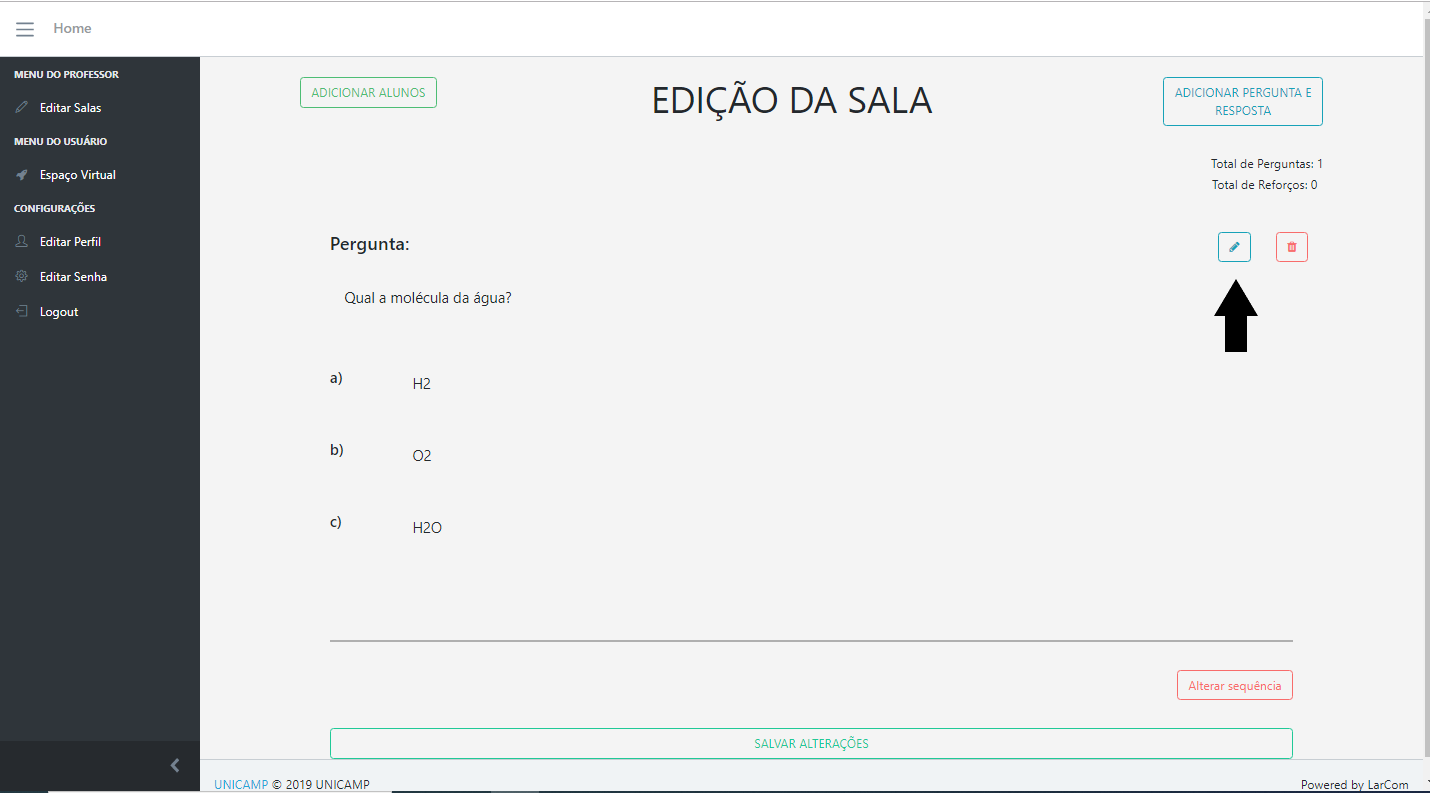
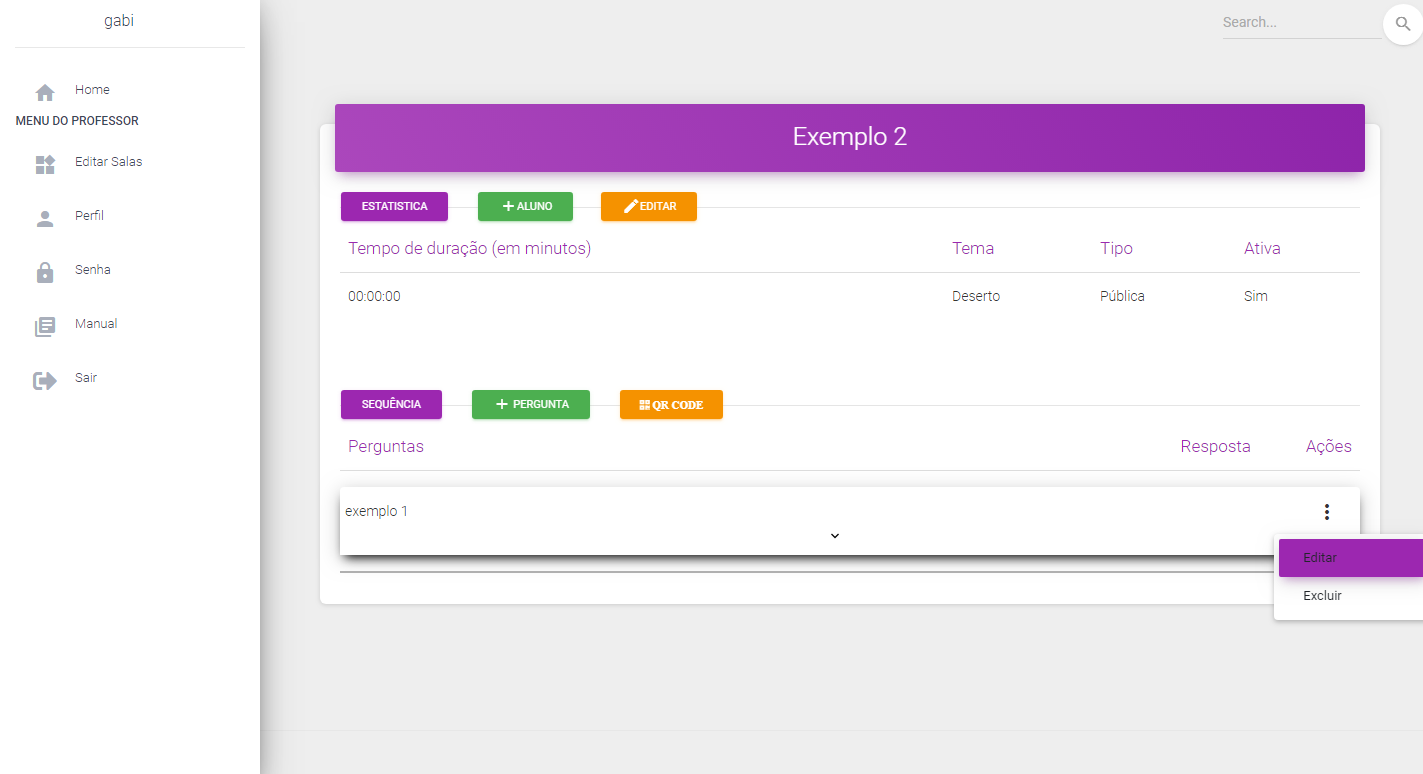
#layout alterações manual.blade.php

diff --git a/resources/views/manual.blade.php b/resources/views/manual.blade.php
@@ -13,10 +13,9 @@
                         <div id="list-example" class="list-group">
                             <a class="list-group-item list-group-item-action" href="manual#list-item-1-1">&emsp;Criar</a>
                             <a class="list-group-item list-group-item-action" href="manual#list-item-1-2">&emsp;Editar</a>
-                            <a class="list-group-item list-group-item-action" href="manual#list-item-1-3">&emsp;Deletar</a>
-                            <a class="list-group-item list-group-item-action" href="manual#list-item-1-4">&emsp;Desabilitadas</a>
-                            <a class="list-group-item list-group-item-action" href="manual#list-item-1-5">&emsp;Habilitadas</a>
-                            <a class="list-group-item list-group-item-action" href="manual#list-item-1-6">&emsp;Estatísticas</a>
+                            <a class="list-group-item list-group-item-action" href="manual#list-item-1-3">&emsp;Desativadas</a>
+                            <a class="list-group-item list-group-item-action" href="manual#list-item-1-4">&emsp;Ativas</a>
+                            <a class="list-group-item list-group-item-action" href="manual#list-item-1-5">&emsp;Estatísticas</a>
                         </div>
                     </a>
                     <a class="list-group-item list-group-item-action"></a>
@@ -63,9 +62,6 @@
                             
                                 <ul style="list-style-type:square;padding-left:18%">
                                     <li>
-                                        Criador do Labirinto: preenchido com o seu nome de usuário;
-                                    </li>
-                                    <li>
                                         Nome da Sala: é o que irá aparecer para os alunos;
                                     </li>
                                     <li>
@@ -94,45 +90,36 @@
                                 Editar Sala
                             </h5>
                             <p>
-                                Após criar a sala, se algum dos campos tiver sido preenchido de forma errada, é só clicar no botão <i class="fa fa-cogs"></i> e ele abrirá um editor de texto com os mesmos campos da página de criar sala e, ao finalizar, clique em “SALVAR ALTERAÇÕES”.
+                                Após criar a sala, se algum dos campos tiver sido preenchido de forma errada, é só clicar no botão <i class="material-icons">more_vert</i> e selecionar a opção 'Editar'. Assim, aparecerá uma caixa semelhante a que foi utilizada para criar a sala, mas, desta vez, os campos já aparecerão preenchidos.
                                 <br>
                                 <img src="/img/editar_sala.png" class="img-fluid" style="width: 800px; padding-bottom: 50px; padding-top:50px; ">
                                
                             </p>
                             
-                            <!--                            DELETAR SALA                           -->
-                            <h5 id="list-item-1-3">
-                                Deletar Sala
-                            </h5>
-                            <p>
-                                Para deletar uma sala, basta clicar no botão <i class="fa fa-trash"></i>.
-                                <br>
-                                <img src="/img/deletar_sala.png" class="img-fluid" style="width: 800px; padding-bottom: 50px; padding-top:50px; ">
-                            </p>
                             
                             <!--                            DESABILITAR SALA                           -->
-                            <h5 id="list-item-1-4">
-                                Desabilitar Sala
+                            <h5 id="list-item-1-3">
+                                Desativar Sala
                             </h5>
                             <p>
-                                Para ver as salas desabilitadas, basta clicar em:
+                                As salas desativadas estarão sinalizadas com outra cor (cinza), mas também podem ser visualizadas na aba 'DESATIVADAS'
                                 <br>
                                 <img src="/img/disabled.png" class="img-fluid" style="width: 800px; padding-bottom: 50px; padding-top:50px; ">
                             </p>
                             
                             
                             <!--                            HABILITAR SALA                           -->
-                            <h5 id="list-item-1-5">
-                                Habilitar Sala
+                            <h5 id="list-item-1-4">
+                                Ativar Sala
                             </h5>
                             <p>
-                                Para ver as salas habilitadas, basta clicar em:
+                                As salas ativadas sempre apareceram primeiro nas listas, elas podem ser visualizadas na aba 'ATIVADAS'
                                 <br>
                                 <img src="/img/enabled.png" class="img-fluid" style="width: 800px; padding-bottom: 50px; padding-top:50px; ">
                             </p>
                             
                             <!--                            ESTATÍSTICAS SALA                           -->
-                            <h5 id="list-item-1-6">
+                            <h5 id="list-item-1-5">
                                 Estatísticas da Sala
                             </h5>
                             <p>
@@ -148,7 +135,7 @@
                             Perguntas e Respostas
                         </h4>
                         <p>
-                            Para acessar a área de perguntas e repostas, clique em <i class="fa fa-pencil-square-o"></i>
+                            Para acessar a área de perguntas e repostas, clique em <i class="material-icons">more_vert</i> e, depois, na opção 'Visualizar'
                             <img src="/img/editar_sala_perg.png" class="img-fluid" style="width: 800px; padding-bottom: 50px; padding-top:50px; ">
                         </p>
                         <div style="padding-left: 5%">
@@ -157,7 +144,7 @@
                                 Cadastrar Pergunta e Resposta
                             </h5>
                             <p>
-                                Para criar uma nova sala, clique em “ADICIONAR PERGUNTA E RESPOSTA" que fica localizado na parte superior direita do site.
+                                Para criar uma nova sala, clique em “+ PERGUNTA" que fica localizado na parte superior direita do site.
                                 <br>
                                 <img src="/img/nova_perg.png" class="img-fluid" style="width: 800px; padding-bottom: 50px; padding-top:50px; ">
                                 <br>
@@ -178,7 +165,6 @@
                                                 Pergunta: este campo irá variar de acordo com o que foi selecionado no campo tipo de pergunta: se for texto, aparecerá um campo para digitar, se for imagem ou áudio, aparecerá um campo para realizar o upload do arquivo e, caso seja vídeo, aparecrá um campo para digitar a url do mesmo.
                                             </li>
                                         </ul>
-                                        <img src="/img/add_perg.png" class="img-fluid" style="width: 400px; padding-bottom: 50px; padding-top:50px; ">
                                     </li>
                                     <li>
                                         Resposta:
@@ -196,7 +182,6 @@
                                                 Se for a primeira resposta, aparecerá um botão para adicionar mais uma resposta, caso contrário, aparecerá um botão para deletar a resposta.
                                             </li>
                                         </ul>
-                                        <img src="/img/add_resp.png" class="img-fluid" style="width: 400px; padding-bottom: 50px; padding-top:50px; ">
                                     </li>
                                     <li>
                                         Ambiente:
@@ -211,7 +196,7 @@
                                                 Largura: pequeno, médio ou grande;
                                             </li>
                                         </ul>
-                                        <img src="/img/add_ambiente.png" class="img-fluid" style="width: 400px; padding-bottom: 50px; padding-top:50px; ">
+                                        <img src="/img/add_perg.png" class="img-fluid" style="width: 400px; padding-bottom: 50px; padding-top:50px; ">
                                     </li>
                                     <li>
                                         Reforço: inicialmente só há um campo que, ao ser clicado, mostra os campos para preencher uma pergunta de reforço, esses campos serão exatamente iguais aos anteriores, a única diferença é que há duas configurações de ambientes diferentes: a primeira é o caminho que usuário irá percorrer para achar o reforço e o outro será o caminho pelo qual ele passará quando acertar a pergunta.
@@ -233,7 +218,7 @@
                                 Editar Pergunta/Resposta
                             </h5>
                             <p>
-                                Após criar as perguntas, se algum dos campos tiver sido preenchido de forma errada, é só clicar no botão <i class="fa fa-pencil-square-o"></i> e ele abrirá um editor de texto com os mesmos campos da caixa de criar pergunta e, ao finalizar, clique em “SALVAR ALTERAÇÕES”.
+                                Após criar as perguntas, se algum dos campos tiver sido preenchido de forma errada, é só clicar no botão <i class="material-icons">more_vert</i> e depois em 'Editar', e ele abrirá um editor de texto com os mesmos campos da caixa de criar pergunta e, ao finalizar, clique em “SALVAR ALTERAÇÕES”.
                                 <br>
                                 <img src="/img/editar_perg.png" class="img-fluid" style="width: 400px; padding-bottom: 50px; padding-top:50px; ">
                             </p>
@@ -242,7 +227,7 @@
                                 Alterar Sequência
                             </h5>
                             <p>
-                                É o botão no canto inferior direito, serve para alterar a ordem em que o jogador verá as perguntas. Para alterar a ordem, basta arrastar a perqunta para a posição desejada.
+                                É o botão que serve para alterar a ordem em que o jogador verá as perguntas. Para alterar a ordem, basta arrastar a perqunta para a posição desejada.
                                 <br>
                                 <img src="/img/ordem_perg.png" class="img-fluid" style="width: 400px; padding-bottom: 50px; padding-top:50px; ">
                                 <img src="/img/ordem.png" class="img-fluid" style="width: 400px; padding-bottom: 50px; padding-top:50px; ">
@@ -253,19 +238,11 @@
                                 Deletar Pergunta
                             </h5>
                             <p>
-                                Para deletar uma pergunta, basta clicar no botão <i class="fa fa-trash"></i>.
+                                Para deletar uma pergunta, basta clicar no botão <i class="material-icons">more_vert</i> e, depois, na opção 'Excluir'.
                                 <br>
-                                <span style="color:#aa0000">Obs.: ao clicar em <i class="fa fa-trash"></i>, a(s) resposta(s) e, se houver, o reforço serão deletados juntos a pergunta.</span>
+                                <span style="color:#aa0000">Obs.: ao clicar em 'Excluir', a(s) resposta(s) e, se houver, o reforço serão deletados juntos a pergunta.</span>
                                 <br>
                                 <img src="/img/deletar_perg.png" class="img-fluid" style="width: 400px; padding-bottom: 50px; padding-top:50px; ">
-                            </p>
-                            <h5 id="list-item-2-5">
-                                Salvar todas as alterações
-                            </h5>
-                            <p>
-                                No canto inferior da página, há um botão que garante que todas as perguntas e respostas sejam salvas, para que o QrCode seja gerado.
-                                <br>
-                                <img src="/img/salvar.png" class="img-fluid" style="width: 400px; padding-bottom: 50px; padding-top:50px; ">
                             </p>
                             
                         </div>
